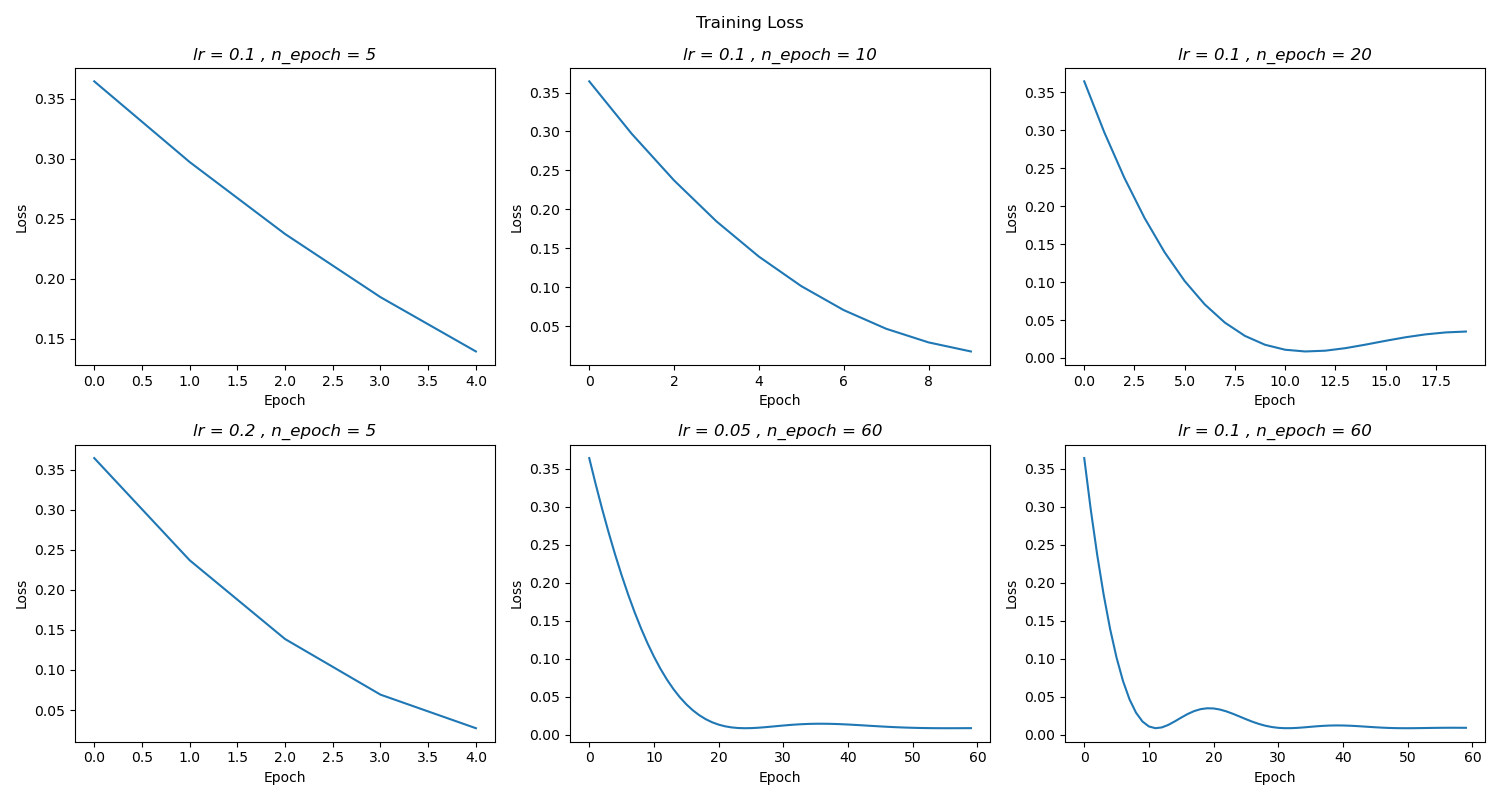
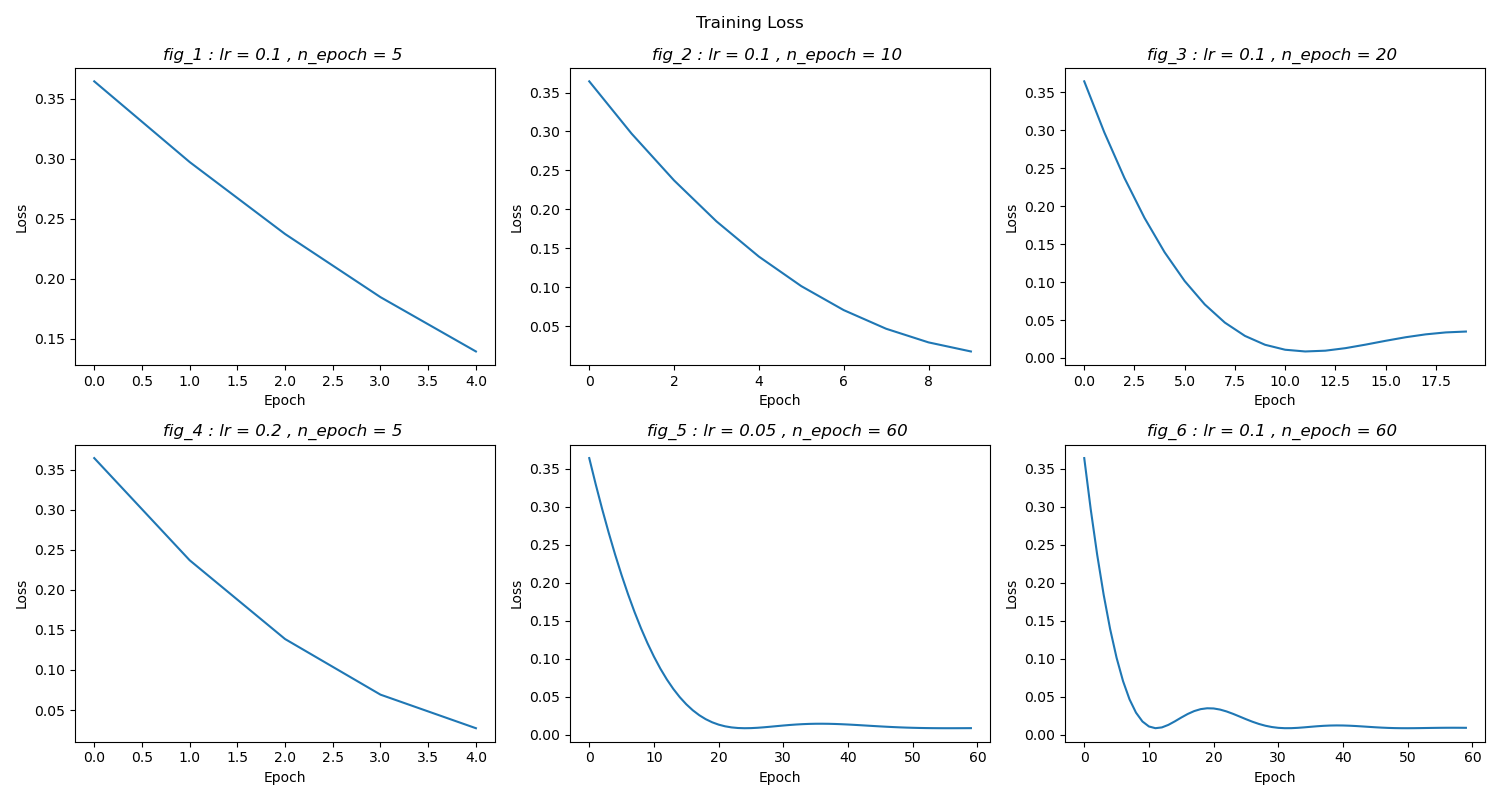
Docs: Comment of loss curves of Regression

diff --git a/main.py b/main.py
@@ -133,7 +133,7 @@ class PlotHandler:
             axes[row, col].plot(instance.train_losses)
             axes[row, col].set_xlabel('Epoch')
             axes[row, col].set_ylabel('Loss')
-            axes[row, col].set_title('lr = {} , n_epoch = {}'.format(instance.lr, instance.n_epochs), fontstyle='oblique')
+            axes[row, col].set_title('fig_{} : lr = {} , n_epoch = {} '.format( i+1, instance.lr, instance.n_epochs), fontstyle='oblique')
             
         plt.tight_layout()
         plt.show()

diff --git a/README.md b/README.md
@@ -7,22 +7,41 @@ This repository presents the basics of machine learning, particularly regression
 the following graphs show the results of minimizing the error function following a parameter variation
 
 ### 1. Gradient descent
-![gradient_descent](/public/assets/gradient_descent.png)
+![gradient_descent](/public/assets/Graddient_descent.png)
+- fig_1, fig_2, fig_3, fig_6  have the same learning rate and their plots show that training on a large number of epochs quickly reduces the lost function
+- fig_1, fig_4 (fig_5, fig_6) have same number of epoch and we see that learning is better for a greater learning rate.
+
+
 ### 2. Stochiastic Gradient descent
-![stochastic_gradient_descent](/public/assets/stochastic_gradient_descent.png)
+![stochastic_gradient_descent](/public/assets/Stochiastic_gradient_descent.png)
+- fig_1, fig_4  have same number of epoch and we see that learning is better for a greater learning rate.  
+
 ### 3. Stochiastic Gradient descent with momentum
 Considering a fixed beta to calculate momentum  (equal to 0.99)
-![gradient_descent_with_momentum](/public/assets/gradient_descent_with_momentum.png)
+![gradient_descent_with_momentum](/public/assets/Stochiastic_with_momentum_099.png)
+The performance of stochiastical with a momentum of 0.99 is not good compared to the two previous optimizers.
+
+change beta before computing momentum  (equal to 0.44)
+![gradient_descent_with_momentum](/public/assets/Sgd_momentum_044.png)
+But if we reduce beta to 0.44 we have better convergence
 
 ### 4. Minibatch Gradient descent 
 Considering a fixed batch (equal to 3)
-![minibatch_gradient_descent](/public/assets/minibatch_gradient_descent.png)
+![minibatch_gradient_descent_with_3_as_batch](/public/assets/Minibatch_gradient_descent_3.png)
+
+change batch (equal to 1)
+![minibatch_gradient_descent_with_1_as_batch](/public/assets/Minibach_1.png)
+- The minibatch with a batch of 1 is better than 3
+
 ### 5. Adam Gradient descent
 Considering fixed variables like (beta1=0.9, beta2=0.999, epsilon=1e-8) 
 ![adam_gradient_descent](/public/assets/adam_gradient_descent.png)
+fig_6 we observe a rapid convergence then oscillation around the global minimum
+
 ## II. Logistic regression
 
-![logistic_gradient_descent](/public/assets/logistic_gradient_descent.png)
+![logistic_gradient_descent](/public/assets/Logistique_regression.png)
+From all its sets of plots we find it appropriate to choose the following hyperparameters:  $$lr = 0.05  \qquad n\_epochs = 5000$$
 
 ## Optimizations
 
